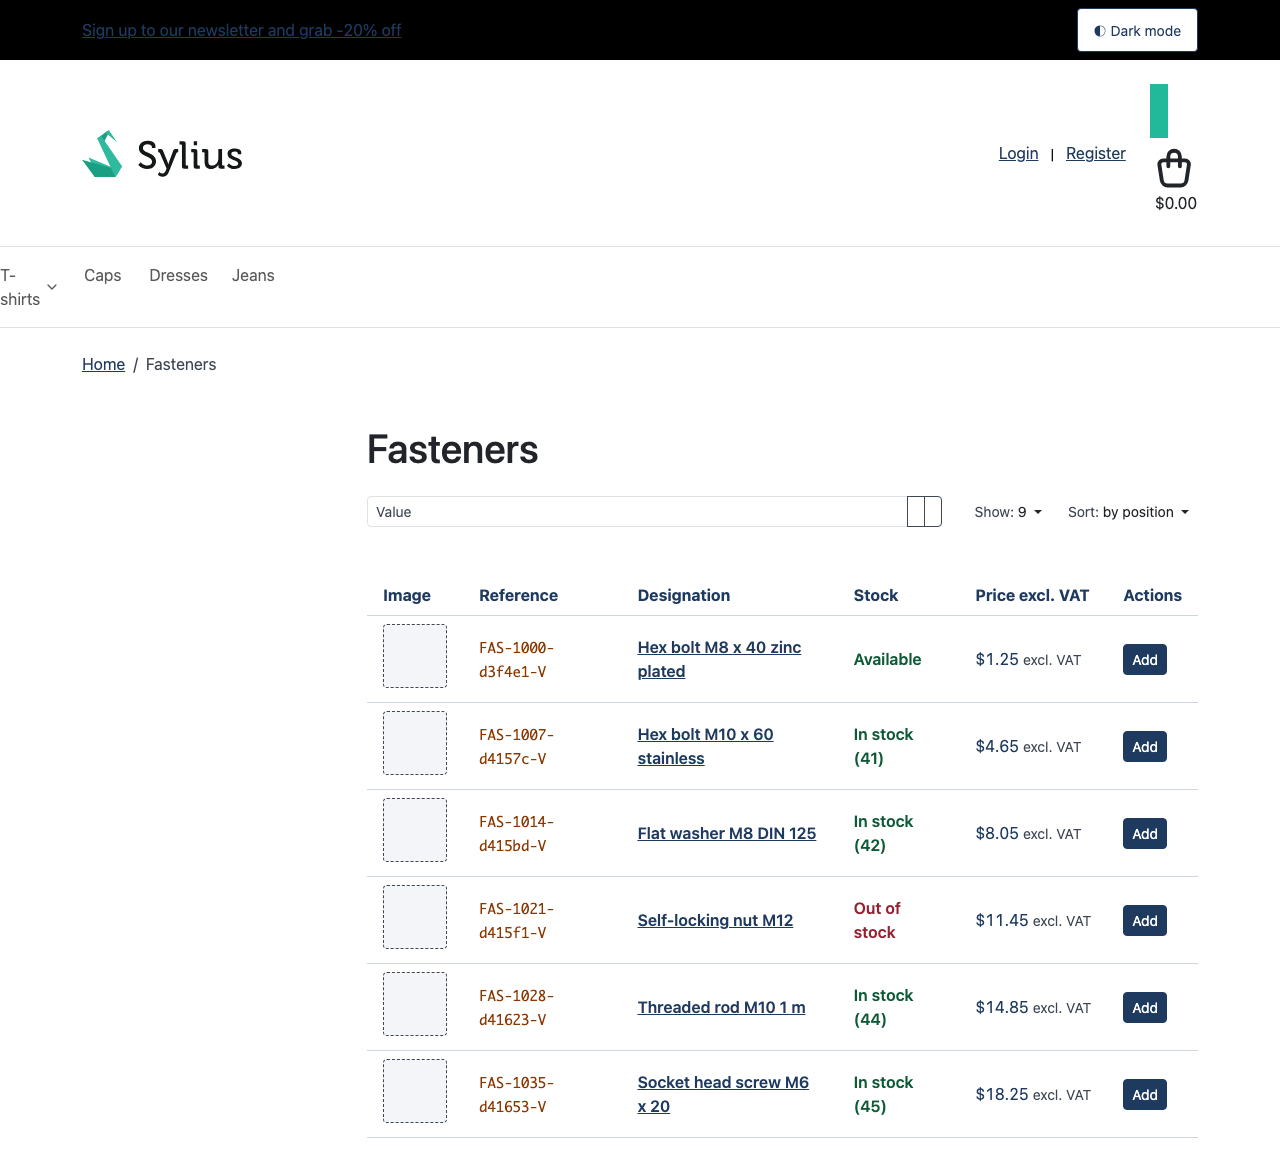
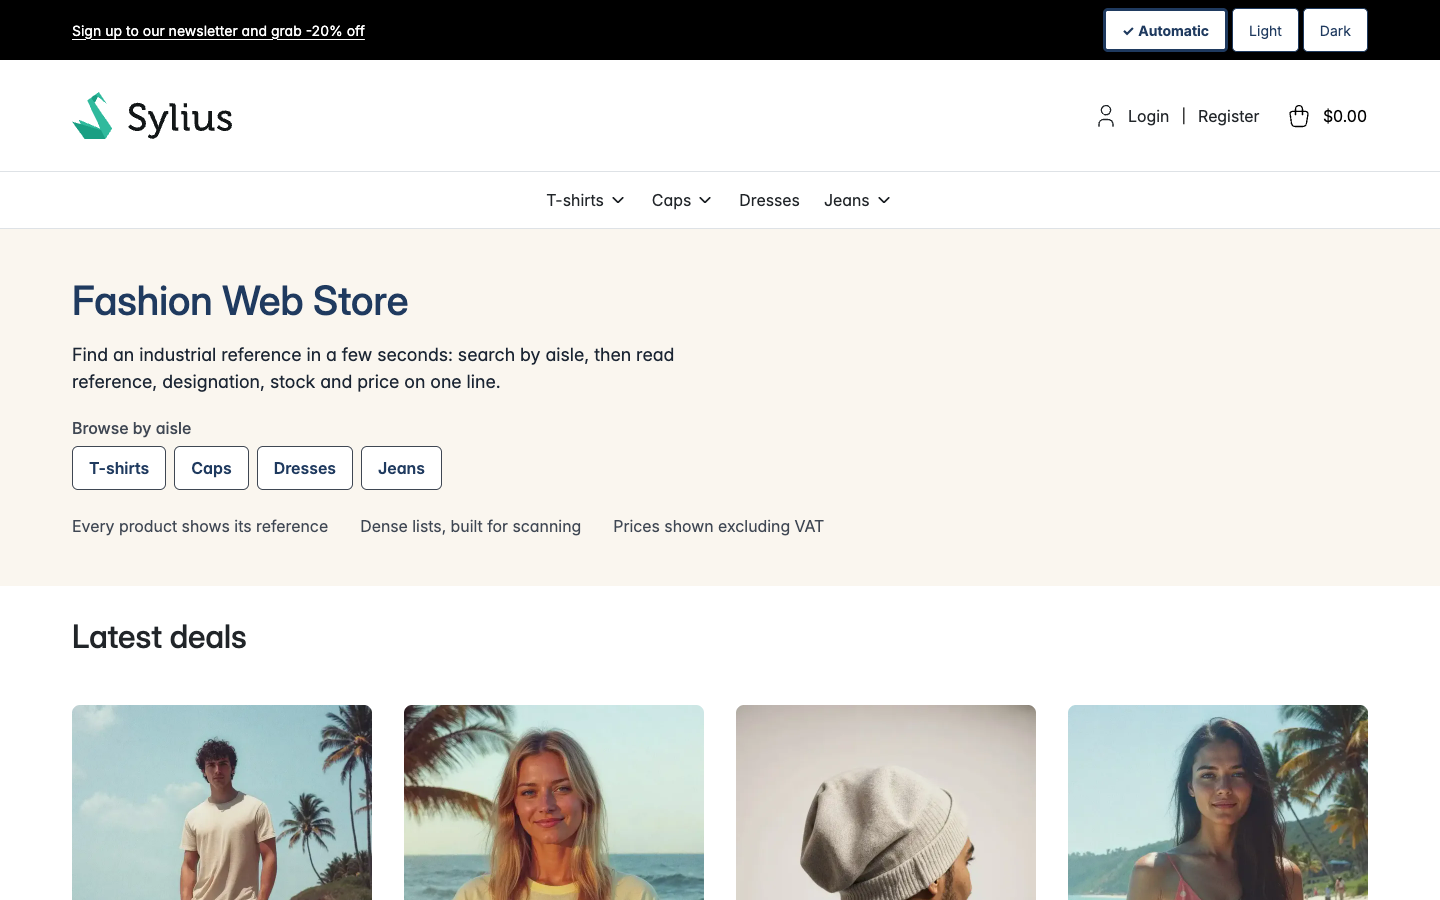
chore(release): v0.3.0 — captures, empreinte du script de saisie rapide, notes de version (#28)
* test(theme): empreinte publiée et nonce du script de saisie rapide (US-227)

Claude-Session: https://claude.ai/code/session_01KWVXsNrAKj98xJoR5Xsf1V

* docs(theme): empreinte CSP du script de saisie rapide dans les README (US-227)

Claude-Session: https://claude.ai/code/session_01KWVXsNrAKj98xJoR5Xsf1V

* docs(changelog): notes de version 0.3.0

Claude-Session: https://claude.ai/code/session_01KWVXsNrAKj98xJoR5Xsf1V

* test(theme): une page thémée n'a qu'un seul landmark contentinfo

L'audit axe du projet vierge avant la v0.3.0 relève un <footer> imbriqué
dans un autre (landmark-no-duplicate-contentinfo).

Claude-Session: https://claude.ai/code/session_01KWVXsNrAKj98xJoR5Xsf1V

* style(theme): format ECS du test du landmark contentinfo

Claude-Session: https://claude.ai/code/session_01KWVXsNrAKj98xJoR5Xsf1V

* fix(theme): un seul landmark contentinfo, le pied de page du cœur n'est plus enveloppé dans un second <footer>

Claude-Session: https://claude.ai/code/session_01KWVXsNrAKj98xJoR5Xsf1V

* docs(theme): captures du mode clair, du mode sombre et de la saisie rapide sur un projet Sylius 2.3 vierge

Claude-Session: https://claude.ai/code/session_01KWVXsNrAKj98xJoR5Xsf1V

---------

diff --git a/tests/Unit/Theme/QuickFindScriptCspTest.php b/tests/Unit/Theme/QuickFindScriptCspTest.php
@@ -1,0 +1,95 @@
+<?php
+
+declare(strict_types=1);
+
+namespace Tmonier\SyliusIndustryTradeTheme\Tests\Unit\Theme;
+
+use PHPUnit\Framework\Attributes\DataProvider;
+use PHPUnit\Framework\TestCase;
+use Twig\Environment;
+use Twig\Loader\FilesystemLoader;
+
+/**
+ * US-227 : le script de saisie rapide sous une CSP stricte, comme celui du mode d'affichage (US-279) : nonce de l'application
+ * quand elle en fournit un, sinon empreinte SHA-256 publiée dans les deux README et vérifiée ici.
+ */
+final class QuickFindScriptCspTest extends TestCase
+{
+    private const TEMPLATE = __DIR__ . '/../../../templates/industry_trade/_quick_find_script.html.twig';
+
+    public function testScriptCarriesTheNonceOfTheApplicationWhenThereIsOne(): void
+    {
+        $html = $this->render([
+            'industry_trade_script_nonce' => 'abc123',
+        ]);
+
+        $this->assertMatchesRegularExpression('#<script data-industry-quick-find-script nonce="abc123">#', $html);
+    }
+
+    public function testScriptHasNoNonceAttributeWithoutAnApplicationNonce(): void
+    {
+        $html = $this->render([]);
+
+        $this->assertStringContainsString('<script data-industry-quick-find-script>', $html);
+        $this->assertStringNotContainsString('nonce=', $html);
+    }
+
+    public function testScriptContentIsStaticSoItsHashDoesNotDependOnTheRendering(): void
+    {
+        $this->assertSame(
+            $this->content($this->render([])),
+            $this->content($this->render([
+                'industry_trade_script_nonce' => 'abc123',
+            ])),
+        );
+    }
+
+    #[DataProvider('readmesProvider')]
+    public function testReadmePublishesTheCurrentFingerprintOfTheScript(string $readme): void
+    {
+        $fingerprint = $this->fingerprint();
+
+        $this->assertStringContainsString(
+            "'" . $fingerprint . "'",
+            (string) file_get_contents(__DIR__ . '/../../../' . $readme),
+            sprintf(
+                'L\'empreinte du script de saisie rapide dans %s ne correspond plus au script : remplacez-la par %s.',
+                $readme,
+                $fingerprint,
+            ),
+        );
+    }
+
+    /**
+     * @return iterable<string, array{string}>
+     */
+    public static function readmesProvider(): iterable
+    {
+        yield 'README anglais' => ['README.md'];
+        yield 'README français' => ['README.fr.md'];
+    }
+
+    private function fingerprint(): string
+    {
+        return 'sha256-' . base64_encode(hash('sha256', $this->content($this->render([])), true));
+    }
+
+    /**
+     * @param array<string, mixed> $context
+     */
+    private function render(array $context): string
+    {
+        $twig = new Environment(new FilesystemLoader(dirname(self::TEMPLATE)));
+
+        return $twig->render(basename(self::TEMPLATE), $context);
+    }
+
+    private function content(string $html): string
+    {
+        if (preg_match('#<script[^>]*>(.*?)</script>#s', $html, $match) !== 1) {
+            self::fail('aucune balise <script> dans le gabarit rendu');
+        }
+
+        return $match[1];
+    }
+}

diff --git a/tests/Functional/HostAppCompatibilityTest.php b/tests/Functional/HostAppCompatibilityTest.php
@@ -42,6 +42,18 @@ final class HostAppCompatibilityTest extends CatalogWebTestCase
         $this->assertSelectorTextSame('footer [data-host-app="footer"]', 'host app');
     }
 
+    public function testThemedLayoutHasASingleFooterLandmark(): void
+    {
+        $crawler = $this->client->request('GET', '/' . self::LOCALE . '/');
+
+        $this->assertResponseIsSuccessful();
+        $this->assertSelectorNotExists(
+            'footer footer',
+            'le pied de page du cœur est déjà un <footer> : le gabarit du thème ne doit pas l\'envelopper dans un second',
+        );
+        $this->assertCount(1, $crawler->filter('footer'), 'une page thémée a un seul landmark contentinfo');
+    }
+
     public function testHookableAddedByTheApplicationToTheProductListIsRenderedOnAThemedChannel(): void
     {
         $taxon = $this->createTaxon('Fasteners');

diff --git a/CHANGELOG.md b/CHANGELOG.md
@@ -6,10 +6,12 @@ The format is based on [Keep a Changelog](https://keepachangelog.com/).
 
 ## [Unreleased]
 
+## [0.3.0] - 2026-11-12
+
 ### Added
 
 - Dark mode switch with three choices (US-278): "Automatic", "Light", "Dark". "Automatic" removes the remembered choice (`industry-trade:color-mode`) and the page follows `prefers-color-scheme` again, including when the system changes during the visit. A `industry-trade:color-mode-change` event is dispatched on `document`.
-- CSP-strict ready script (US-279): the script carries the application nonce when it exposes the Twig variable `industry_trade_script_nonce`; the SHA-256 hash of the script is published in both READMEs and checked by `ColorModeScriptCspTest`.
+- CSP-strict ready script (US-279): the script carries the application nonce when it exposes the Twig variable `industry_trade_script_nonce`; the SHA-256 hash of the script is published in both READMEs and checked by `ColorModeScriptCspTest`. The quick find script (US-227) does the same, its hash checked by `QuickFindScriptCspTest`.
 - Keyboard entry on the dense product list (US-227): reference/designation combobox with a live region announcing the result count ("No reference found" when empty), arrow-key navigation between grid cells (Enter, Esc), visible focus. Suggestions come from the rows of the current page (the core has no search by reference). The script carries the application nonce when `industry_trade_script_nonce` is defined. The theme still depends on no plugin. Script covered by a Node-run test (`QuickFindScriptTest`).
 - The Blank project CI job audits the dark mode contrast (`tests/BlankProject/audit-dark-contrast.mjs`, puppeteer-core and axe-core pinned) and fails naming the axe rule and the element.
 
@@ -24,6 +26,13 @@ The format is based on [Keep a Changelog](https://keepachangelog.com/).
 - The display mode switch is rendered in a real installation: `config/packages/tmonier_sylius_industry_trade_theme.yaml` now imports `config/twig_hooks/color_mode.yaml` (in v0.2.0 the file was copied but never imported, so the toggle never appeared; only the test application imported it). `PackageConfigTest` checks that every hook file is imported, and the blank-project job now looks for the buttons themselves.
 - Dark mode readable on the whole page (US-280): main menu links, footer links and the cart total in the header (core `.nav` and `.btn-light` / `.btn-transparent` colors, `#212529` / `#000` on the dark page) now use the dark text tokens, only under `[data-theme="industry-trade"]`. A blank-project audit (axe-core, dark mode, home and product list) finds no more contrast violation.
 - The skip link text (`skip_link`, domain `shop_layout`) is translated in English and French.
+- A single footer landmark: the theme layout no longer wraps the core footer (already a `<footer>`) in a second `<footer>`, which gave two nested contentinfo landmarks (axe `landmark-no-duplicate-contentinfo`, present since v0.1.0).
+
+### Upgrade
+
+- Translation key `industry_theme.color_mode.toggle` no longer exists: if you override the theme translations, use `industry_theme.color_mode.group`, `.auto`, `.light` and `.dark`. Custom CSS or scripts targeting `[data-industry-color-mode-toggle]` on the button should target `[data-industry-color-mode-choice]`.
+- Strict Content-Security-Policy: expose a Twig variable `industry_trade_script_nonce` (your application's script nonce) and both inline scripts carry it; or allow the two hashes published in the README (color mode and quick find).
+- Nothing to copy: `config/twig_hooks/color_mode.yaml` is now imported by the package configuration file.
 
 ## [0.2.0] - 2026-11-11
 
@@ -42,5 +51,6 @@ The format is based on [Keep a Changelog](https://keepachangelog.com/).
 - To get the toggle, copy `config/twig_hooks/color_mode.yaml`. Without it, the theme follows the system setting only.
 - With a strict Content-Security-Policy, allow the inline `<script data-industry-color-mode>` with a nonce or a hash (see the README).
 
-[Unreleased]: https://github.com/thibmonier/sylius-industry-trade-theme/compare/v0.2.0...HEAD
+[Unreleased]: https://github.com/thibmonier/sylius-industry-trade-theme/compare/v0.3.0...HEAD
+[0.3.0]: https://github.com/thibmonier/sylius-industry-trade-theme/compare/v0.2.0...v0.3.0
 [0.2.0]: https://github.com/thibmonier/sylius-industry-trade-theme/compare/v0.1.1...v0.2.0

diff --git a/README.fr.md b/README.fr.md
@@ -128,10 +128,12 @@ Sur la liste dense (pages de rayon et de résultats de recherche), un champ « A
 - **Champ** : combobox ARIA (`role="combobox"`, `aria-controls`, `aria-activedescendant`). La saisie filtre les références et désignations **des lignes de la page** (aucune requête réseau : le cœur n'a pas de point d'accès qui cherche par référence, la recherche de sa liste ne porte que sur le nom). La première correspondance est mise en évidence, <kbd>↓</kbd>/<kbd>↑</kbd> parcourent les correspondances, <kbd>Entrée</kbd> place le focus sur la ligne, <kbd>Échap</kbd> ferme la liste puis vide le champ.
 - **Annonces** : une région live (`role="status"`) dit « N références trouvées » ou « Aucune référence trouvée ».
 - **Grille** : <kbd>←</kbd>/<kbd>→</kbd> passent d'une cellule focalisable à l'autre d'une ligne (lien, boutons), <kbd>↑</kbd>/<kbd>↓</kbd> vers la même cellule de la ligne voisine, <kbd>Échap</kbd> revient au champ ; l'indicateur de focus fait 3 px. Les champs de quantité gardent leurs propres flèches.
-- **Sans JavaScript**, le champ reste masqué (`hidden`) et la liste se lit comme avant. **CSP** : le script est en ligne (`<script data-industry-quick-find-script>`) ; il porte le nonce de l'application quand la variable Twig `industry_trade_script_nonce` est définie (comme le script du mode d'affichage) ; sinon, autorisez son empreinte (`templates/industry_trade/_quick_find_script.html.twig`). Sous une CSP qui le bloque, le champ reste masqué.
+- **Sans JavaScript**, le champ reste masqué (`hidden`) et la liste se lit comme avant. **CSP** : le script est en ligne (`<script data-industry-quick-find-script>`) ; il porte le nonce de l'application quand la variable Twig `industry_trade_script_nonce` est définie (comme le script du mode d'affichage) ; sinon, ajoutez 'sha256-UtJO2cK4ZiY0HTR39tItR/U8YODUkpxMoJ08YnSUzbQ=' à `script-src` (SHA-256 du contenu exact du script ; `QuickFindScriptCspTest` échoue en CI quand le script change sans que cette valeur, et celle de `README.md`, soit mise à jour). Sous une CSP qui le bloque, le champ reste masqué.
 - Le plugin quick-order garde sa page et ses champs ; le thème n'y touche pas.
 
-Pas encore de capture : le comportement au clavier est couvert par `tests/Unit/Theme/QuickFindScriptTest.php` (script exécuté sous Node) et `tests/Functional/QuickFindTest.php`.
+![Saisie rapide : « star » tapé, référence correspondante mise en évidence au-dessus de la liste dense](docs/quick-find.png)
+
+Le comportement au clavier est couvert par `tests/Unit/Theme/QuickFindScriptTest.php` (script exécuté sous Node) et `tests/Functional/QuickFindTest.php`.
 
 ### Surcharge des composants
 

diff --git a/README.md b/README.md
@@ -128,10 +128,12 @@ On the dense product list (taxon and search result pages), a "Go to a reference 
 - **Field**: an ARIA combobox (`role="combobox"`, `aria-controls`, `aria-activedescendant`). Typing filters the references and designations **of the lines on the page** (no network request: the core has no endpoint searching by reference, its list search covers the name only). The first match is highlighted, <kbd>↓</kbd>/<kbd>↑</kbd> move through the matches, <kbd>Enter</kbd> moves the focus to the line, <kbd>Esc</kbd> closes the list, then clears the field.
 - **Announcements**: a live region (`role="status"`) says "N references found" or "No reference found".
 - **Grid**: <kbd>←</kbd>/<kbd>→</kbd> move between the focusable cells of a row (link, buttons), <kbd>↑</kbd>/<kbd>↓</kbd> to the same cell of the next row, <kbd>Esc</kbd> back to the field; the focus ring is 3 px. Quantity inputs keep their own arrow keys.
-- **Without JavaScript** the field stays hidden (`hidden`) and the list reads as before. **CSP**: the script is inline (`<script data-industry-quick-find-script>`); it carries the application nonce when the Twig variable `industry_trade_script_nonce` is defined (like the color mode script); otherwise allow its hash (`templates/industry_trade/_quick_find_script.html.twig`). Under a CSP that blocks it, the field stays hidden.
+- **Without JavaScript** the field stays hidden (`hidden`) and the list reads as before. **CSP**: the script is inline (`<script data-industry-quick-find-script>`); it carries the application nonce when the Twig variable `industry_trade_script_nonce` is defined (like the color mode script); otherwise add 'sha256-UtJO2cK4ZiY0HTR39tItR/U8YODUkpxMoJ08YnSUzbQ=' to `script-src` (SHA-256 of the exact script content; `QuickFindScriptCspTest` fails in CI when the script changes without this value, and the one in `README.fr.md`, being updated). Under a CSP that blocks it, the field stays hidden.
 - The quick-order plugin keeps its own page and fields; the theme does not touch them.
 
-No screenshot yet: the keyboard behaviour is covered by `tests/Unit/Theme/QuickFindScriptTest.php` (script run under Node) and `tests/Functional/QuickFindTest.php`.
+![Quick find: "star" typed, matching reference highlighted above the dense list](docs/quick-find.png)
+
+The keyboard behaviour is covered by `tests/Unit/Theme/QuickFindScriptTest.php` (script run under Node) and `tests/Functional/QuickFindTest.php`.
 
 ### Override components
 
